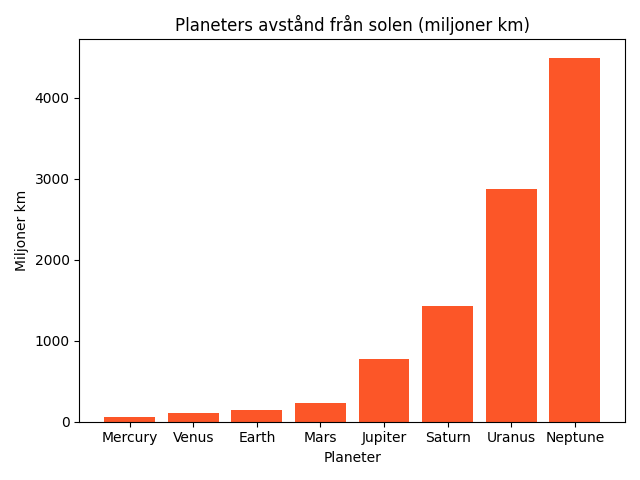
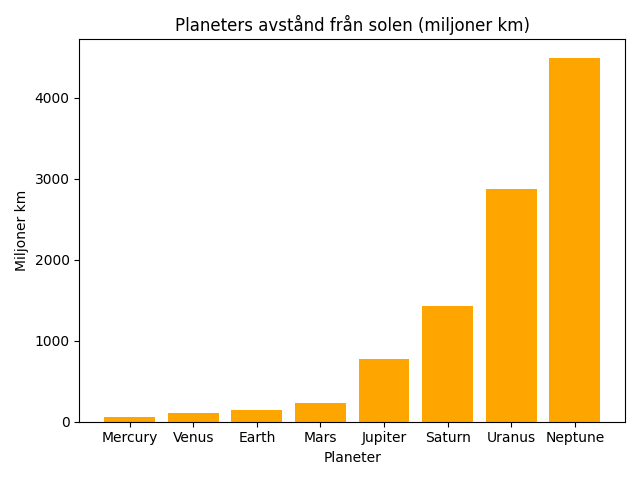
feat(c2): rookie-advanced refactor; add runner + smoke tests; standardize ms timing
why: keep it explainable line-by-line; adds asserts, parity, timing

what: rewrite count_planets.py into helpers (_read_counts, _write_counts) + pipeline_run; add run.py; add tests_smoke.py; remove data/space_logs_small.jsonl; update results.csv; prep README line-by-line

notes: tiny scope by design; no argparse, no packaging, no frameworks

todo: C1 write data/planet_counts.json; auto telemetry runs.csv; C2 enrich_counts.py -> counts_enriched.csv (share, 5–7 asserts); bench gen_space_logs.py + bench_100k.py

Changed region(s): [[0.1562, 0.0938, 0.9375, 0.9062]]

diff --git a/count_planets.py b/count_planets.py
@@ -1,118 +1,89 @@
+# Kommentarer: Svenska.
+# Kod: Engelska.
+# C1, C2, C3, C4 = EN(1) publik funktion.
+
 import json
 import csv
 import time
 
+
 INPUT = "data/space_logs.jsonl"
 OUTPUT = "data/planet_counts.csv"
 
-# Code: English • Comments: Svenska • C1 = EN (1) publik funktion
 
-
-def pipeline_run(input_path: str = INPUT, output_path: str = OUTPUT):
-    # --- A: Läs, validera, räkna ---
+def _read_counts(path: str):
     counts: dict[str, int] = {}
-    rows = 0
-    skipped_blank = 0        # tom rad eller tomt planet-värde efter strip()
-    skipped_missing = 0      # nyckeln "planet" saknas
-    skipped_badjson = 0      # ogiltig JSON-rad
+    rows = skipped_blank = skipped_missing = skipped_badjson = 0
 
     t0 = time.perf_counter()
-    with open(input_path, "r", encoding="utf-8") as f:  # <-- använd input_path
+    with open(path, "r", encoding="utf-8") as f:
         for line in f:
-            # hoppa helt tom rad
             if not line.strip():
                 skipped_blank += 1
                 continue
-
-            # försök tolka raden som JSON
             try:
                 obj = json.loads(line)
             except ValueError:
                 skipped_badjson += 1
-                continue  # <-- måste vara inuti except-blocket
+                continue
 
-            # saknad nyckel?
             if "planet" not in obj:
                 skipped_missing += 1
                 continue
-
-            # hämta och normalisera planet (bara strip i C1)
             planet = str(obj.get("planet", "")).strip().lower()
             if not planet:
                 skipped_blank += 1
                 continue
-
-            # safe increment
             counts[planet] = counts.get(planet, 0) + 1
             rows += 1
 
-    valid_rows = rows
-    print(
-        f"valid={valid_rows} "
-        f"skipped_blank={skipped_blank} "
-        f"skipped_missing={skipped_missing} "
-        f"skipped_badjson={skipped_badjson}"
-    )
+    ms = (time.perf_counter() - t0) * 1000.0
+    return counts, rows, skipped_blank, skipped_missing, skipped_badjson, ms
 
-    # sanity (in-memory)
-    assert rows > 0, "Inga giltiga rader processades (rows==0)."
-    assert rows == sum(counts.values()), (
-        f"Mismatch: rows={rows} ≠ sum(counts)={sum(counts.values())}"
-    )
 
-    dt_ms = (time.perf_counter() - t0) * 1000
-    print(f"tid_ms: {dt_ms:.2f}")
-
-    # --- B: Stabil sortering (count) + CSV + terminal ---
-    sorted_items = sorted(counts.items(), key=lambda kv: kv[1], reverse=True)
-
-    # skriv CSV i samma ordning
-    with open(output_path, "w", newline="", encoding="utf-8") as out:  # <-- output_path
+def _write_counts(path: str, items: list[tuple[str, int]]):
+    with open(path, "w", newline="", encoding="utf-8") as out:
         w = csv.writer(out)
         w.writerow(["planet", "count"])
-        for planet, count in sorted_items:
-            w.writerow([planet, count])
+        for k, v in items:
+            w.writerow([k, v])
 
-    # skriv terminal i samma ordning
-    for planet, count in sorted_items:
-        print(f"{planet},{count}")
 
-    # --- C: Paritetstest (CSV == minnesdata) ---
+def pipeline_run(input_path: str = INPUT, output_path: str = OUTPUT):
+    # --- A: Läsa + räkna ---
+    c, rows, skip_b, skip_miss, skip_bad, ms = _read_counts(input_path)
+
+    # Sanity i minnet.
+    assert rows > 0
+    assert rows == sum(c.values())
+
+    # --- B: Sortera + skriva CSV ---
+    items = sorted(c.items(), key=lambda kv: kv[1], reverse=True)
+    _write_counts(output_path, items)
+
+    # ---C: Verifiering att CSV == minne ---
     csv_items: list[tuple[str, int]] = []
     with open(output_path, "r", newline="", encoding="utf-8") as inf:
-        reader = csv.reader(inf)
-        next(reader, None)  # hoppa header
-        for row in reader:
+        r = csv.reader(inf)
+        next(r, None)
+        for row in r:
             csv_items.append((row[0], int(row[1])))
 
-    # antal rader
-    assert len(csv_items) == len(sorted_items), (
-        f"Antal skiljer: csv={len(csv_items)} vs mem={len(sorted_items)}"
-    )
+    assert len(csv_items) == len(items)
+    assert sum(v for _, v in csv_items) == sum(v for _, v in items)
+    for i, (a, b) in enumerate(zip(items, csv_items), start=1):
+        assert a == b, f"Rad {i} missmatch: mem={a} vs csv={b}"
 
-    # totalsumma
-    csv_sum = sum(c for _, c in csv_items)
-    mem_sum = sum(c for _, c in sorted_items)
-    assert csv_sum == mem_sum, f"Summa skiljer: csv={csv_sum} vs mem={mem_sum}"
-
-    # ordning rad-för-rad
-    for i, (mem_pair, csv_pair) in enumerate(zip(sorted_items, csv_items), start=1):
-        assert mem_pair == csv_pair, f"Rad {i} mismatch: mem={mem_pair} vs csv={csv_pair}"
-
-    print(f"CSV_OK rows={len(csv_items)} sum={csv_sum}")
-
-    # Returnera lite nytta till ev. test/print
     return {
-        "counts": counts,
+        "counts": c,
         "rows": rows,
-        "skipped_blank": skipped_blank,
-        "skipped_missing": skipped_missing,
-        "skipped_badjson": skipped_badjson,
-        "ms": dt_ms,
+        "skipped_blank": skip_b,
+        "skipped_missing": skip_miss,
+        "skipped_badjson": skip_bad,
+        "ms": ms,
     }
 
 
 if __name__ == "__main__":
-    # C1-körning (ingen extra funktion, bara anrop)
     res = pipeline_run()
     print("DONE:", res["rows"], "rows,", f"{res['ms']:.2f} ms")

diff --git a/test_enrich_counts.py b/test_enrich_counts.py
@@ -1,0 +1,58 @@
+# Kommentarer: Svenska
+# Kod: Engelska
+
+from typing import Dict, List, TypedDict
+# Class Row (TypedDict): är ett sätt att skapa en dict. I detta fall är det ett
+# sätt att sätta upp en dict.
+# planet, count och share = keys i dicten
+# string, int och float blir values i dicten.
+
+
+class Row(TypedDict):
+    planet: str
+    count: int
+    share: float
+
+# d: ska vara en dict som mappar string till en int.
+# t.ex "mars" <- string : 2 <- int
+
+
+# -> är en type hint, gör det enklare för både python och någon att se vad som "förväntas" att returneras
+def enrich_counts(d: Dict[str, int]) -> List[Row]:
+    # 1) total
+    total = 0
+    for c in d.values():
+        total = total + int(c)
+    # 2) bygg rader
+    rows = []
+    if total == 0:
+        for p, c in d.items():
+            rows.append({"planet": p, "count": int(c), "share": 0.0})
+    else:
+        for p, c in d.items():
+            share = float(c) / float(total)
+            rows.append({"planet": p, "count": int(c), "share": share})
+
+    # 3) sortera på count fallande
+    rows_sorted = sorted(rows, key=lambda r: r["count"], reverse=True)
+    return rows_sorted
+
+
+# Normalfall
+
+rows = enrich_counts({"mars": 2, "venus": 1})
+assert [r["planet"] for r in rows] == ["mars", "venus"]
+assert [r["count"] for r in rows] == [2, 1]
+assert abs(sum(r["share"] for r in rows) - 1.0) < 1e-6
+
+# Tom dict
+assert enrich_counts({}) == []
+
+# Noll summa
+r2 = enrich_counts({"mars": 0, "venus": 0})
+assert [r["share"] for r in r2] == [0.0, 0.0]
+
+
+# Sortering
+r3 = enrich_counts({"earth": 5, "mars": 7, "venus": 1})
+assert [r["planet"] for r in r3] == ["mars", "earth", "venus"]

diff --git a/tests_smoke.py b/tests_smoke.py
@@ -1,0 +1,22 @@
+# Kommentarer: Svenska
+# Kod: Engelska
+
+
+from count_planets import pipeline_run
+
+
+def test_smoke():
+    res = pipeline_run("data/space_logs.jsonl", "data/planet_counts.csv")
+    assert res["rows"] > 0
+    assert sum(res["counts"].values()) == res["rows"]
+    assert isinstance(res["skipped_badjson"], int)
+    assert isinstance(res["ms"], float)
+
+    # basic sanity check: top planet är konsekvent definierad.
+    top = max(res["counts"].items(), key=lambda kv: kv[1])[0]
+    assert isinstance(top, str)
+
+
+if __name__ == "__main__":
+    test_smoke()
+    print("Okej!")

diff --git a/run.py b/run.py
@@ -1,0 +1,18 @@
+# Kommentarer: Svenska
+# Kod: Engelska
+
+# från count_planets import pipeline_run funktionen
+# kan printa och se all relevant information härifrån.
+# Import - anrop - utskrift.
+from count_planets import pipeline_run
+
+if __name__ == "__main__":
+    res = pipeline_run(
+        input_path="data/space_logs.jsonl",
+        output_path="data/planet_counts.csv",
+    )
+
+    print("DONE:",
+          res["rows"], "rows,",
+          f"{res['ms']:.2f} ms,",
+          "unique_planets=", len(res["counts"]))

diff --git a/space_bridge.py b/space_bridge.py
@@ -164,7 +164,7 @@ if __name__ == "__main__":
     # plott
     positions = range(len(values))
     plt.figure()
-    plt.bar(positions, values, color="#fc5628i")
+    plt.bar(positions, values, color="orange")
     plt.xticks(positions, labels)
     plt.title("Planeters avstånd från solen (miljoner km)")
     plt.xlabel("Planeter")
